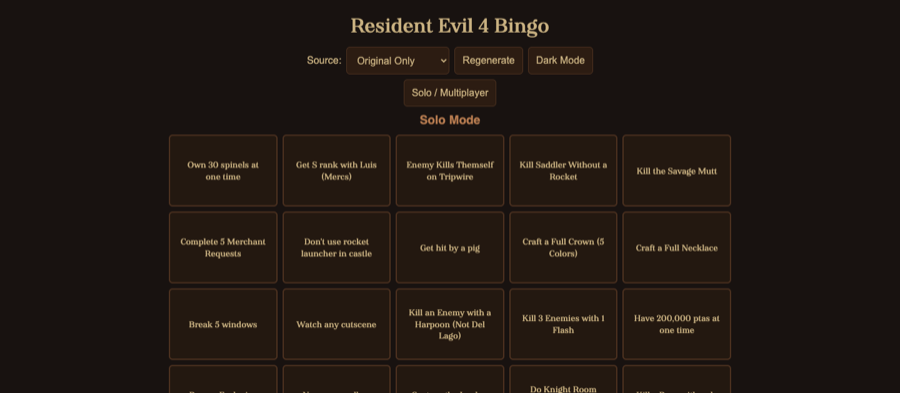
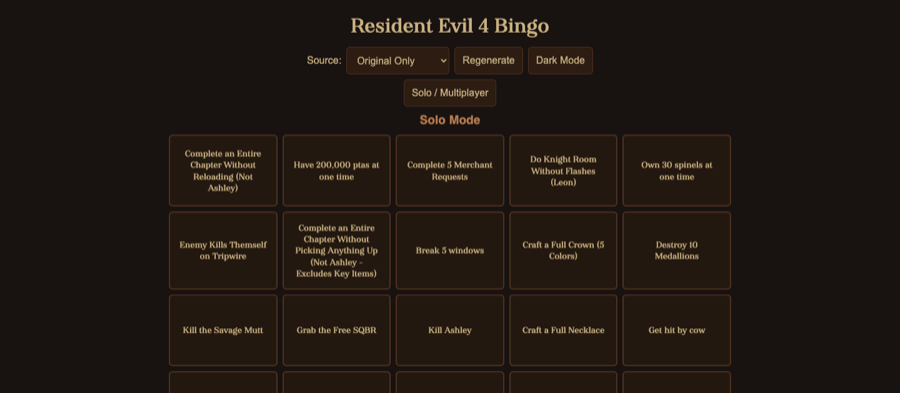
Fixed mobile 'Auto' label

diff --git a/src/style.css b/src/style.css
@@ -794,7 +794,7 @@ a:hover {
         gap: 1.25rem;
     }
 
-    /* Theme toggle — hide label on very small screens */
+    /* Theme toggle — hide label on small screens except in Auto mode */
     .theme-toggle-label {
         display: none;
     }
@@ -803,5 +803,14 @@ a:hover {
         width: 38px;
         justify-content: center;
         padding: 0;
+    }
+
+    .theme-toggle[data-mode="auto"] {
+        width: auto;
+        padding: 0 0.6rem;
+    }
+
+    .theme-toggle[data-mode="auto"] .theme-toggle-label {
+        display: inline;
     }
 }

diff --git a/src/index.js b/src/index.js
@@ -22,6 +22,7 @@ function applyTheme(mode) {
     }
 
     // Update button label
+    toggleBtn.dataset.mode = mode;
     if (mode === 'auto') {
         toggleIcon.textContent  = effective === 'light' ? '☀️' : '🌙';
         toggleLabel.textContent = 'Auto';